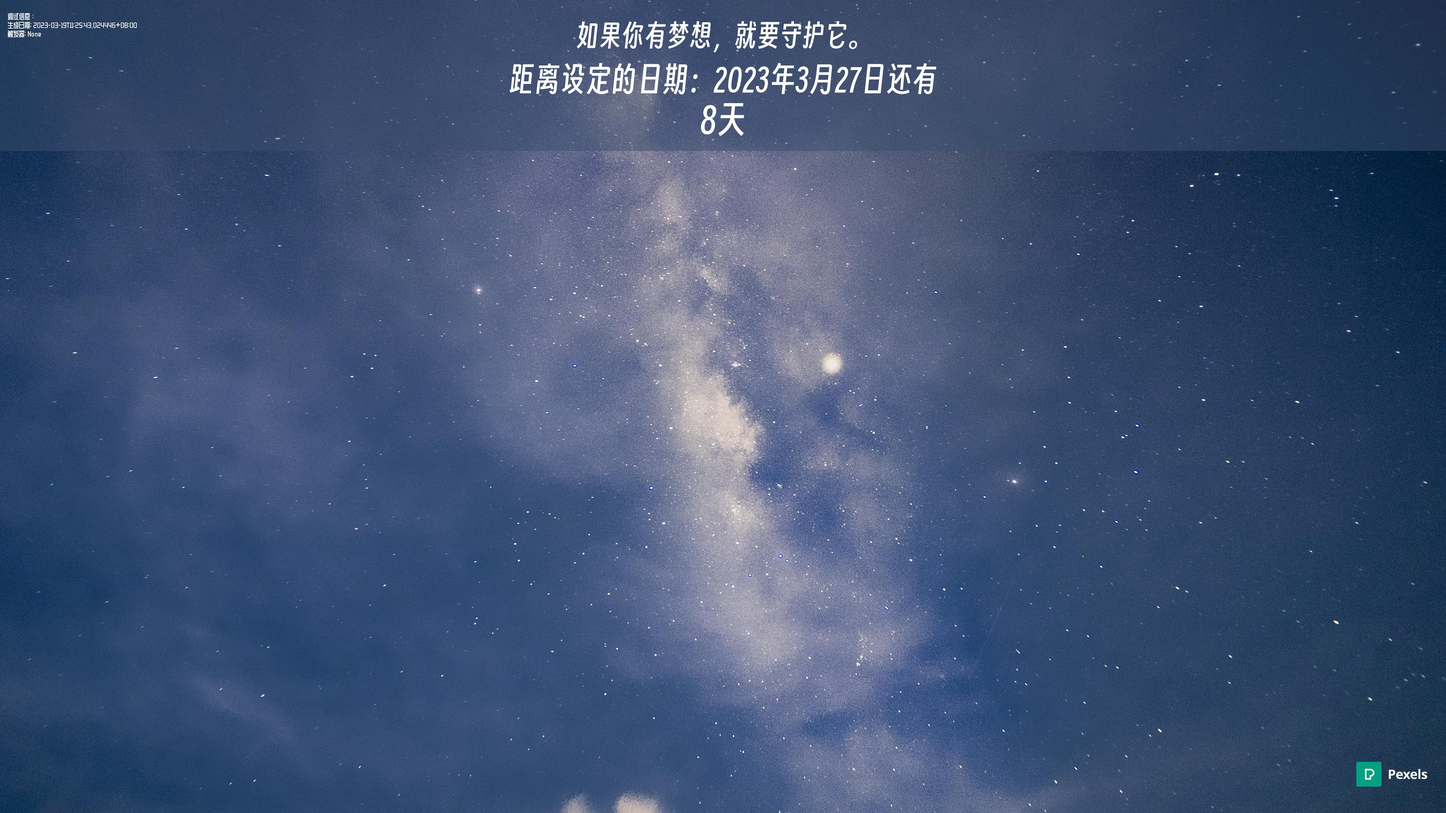
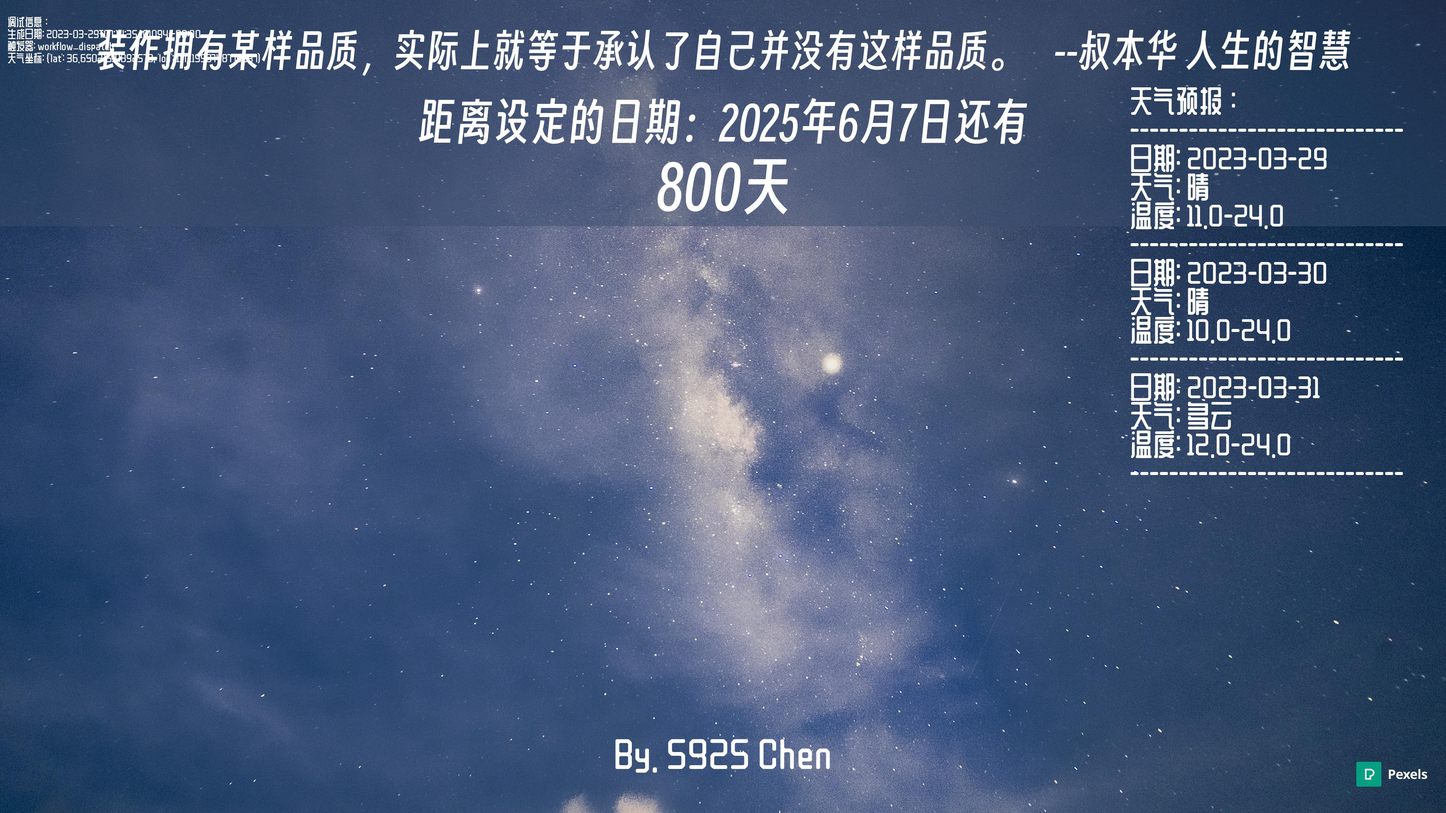
deploy: 5a82a3d229dbbc1394afa6a0377b6b88eee21bdc

diff --git a/background/index.html b/background/index.html
@@ -1013,6 +1013,27 @@ Automation: <a href="../backgrounds/6DEBB2.exe">Link</a></p>
 <td align="center"><a href="../backgrounds/585759.jpg">图片链接</a></td>
 <td align="center">workflow_dispatch</td>
 </tr>
+<tr>
+<td align="center">2023-03-29</td>
+<td align="center">2131801</td>
+<td align="center">时人不识凌云木，直待凌云始道高。</td>
+<td align="center"><a href="../backgrounds/2131801.jpg">图片链接</a></td>
+<td align="center">workflow_dispatch</td>
+</tr>
+<tr>
+<td align="center">2023-03-29</td>
+<td align="center">2232979</td>
+<td align="center">装作拥有某样品质，实际上就等于承认了自己并没有这样品质。</td>
+<td align="center"><a href="../backgrounds/2232979.jpg">图片链接</a></td>
+<td align="center">workflow_dispatch</td>
+</tr>
+<tr>
+<td align="center">2023-03-29</td>
+<td align="center">2850287</td>
+<td align="center">自身拥有越丰富，他在别人身上所能发现得到的就越少。</td>
+<td align="center"><a href="../backgrounds/2850287.jpg">图片链接</a></td>
+<td align="center">workflow_dispatch</td>
+</tr>
 </tbody>
 </table>
 
